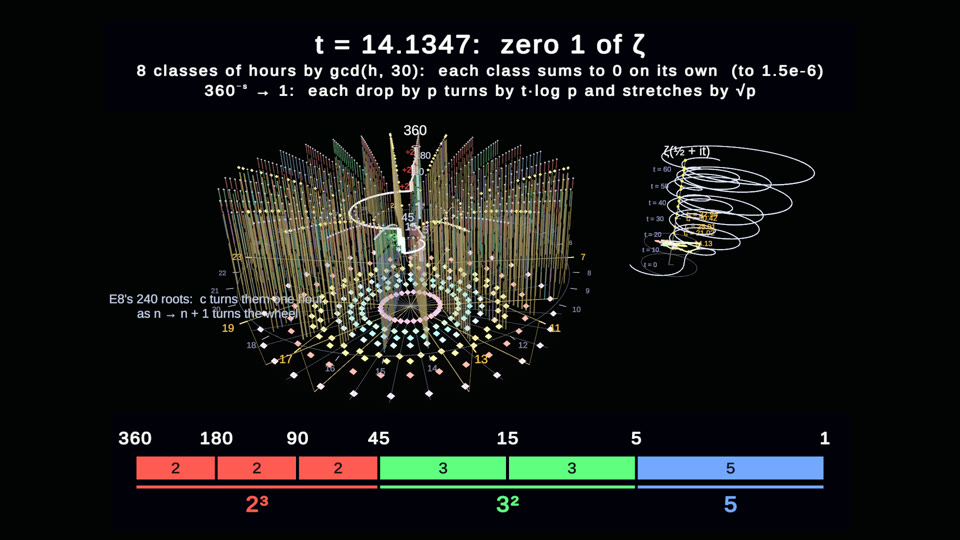
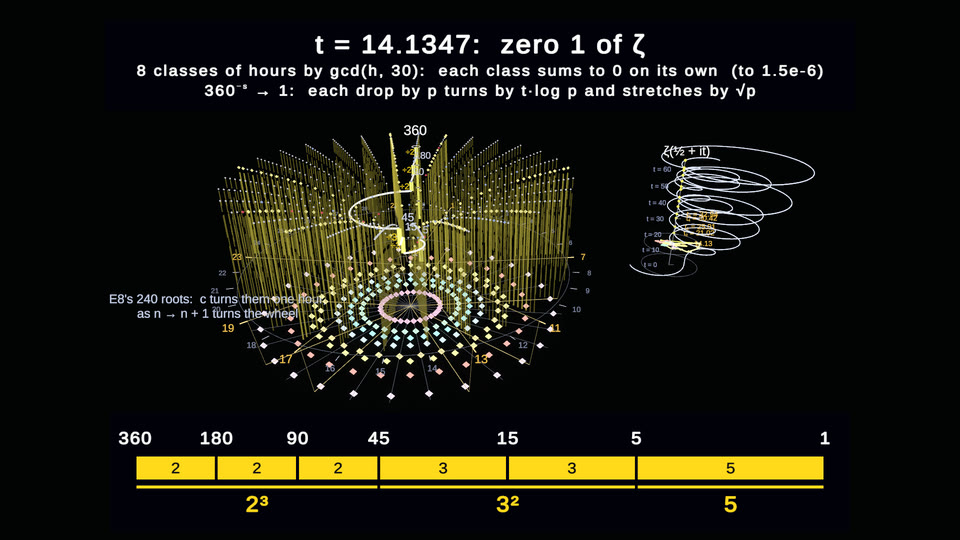
Lab funnels in the games' colours: every factor piece gold, which prime by length and labels
The model lab's factor funnels (Paths, Unified, Zeros) coloured each prime's pieces with LabMath.PrimeColor
(2 red, 3 green, 5 blue, 7 orange, 11 violet, 13 cyan), which clashed with the games' colour language: gold always
means prime, deep red p², blue pronic, grey any other composite. Now every piece is gold (NumberKind.Gold, which stays
gold when dimmed): a prime's column is one solid gold piece, a composite's column a dimmer stack of gold pieces with
wider gaps, and the column tops keep their NumberKind colours (now FunnelView.TopColor).

Which prime a piece is shows in its length, log p, and in labels:
- the picked column is banded white at each joint, and each drop of its path back has a gold ÷p
- the strip writes the prime inside each gold piece (desktop and the VR page)
- the power spirals keep their p^k labels; a tree of one prime is named "first steps ÷p" outside the rim
- Unified's phase path in ζ's plane: thinner gold steps (no arrowheads, unlike the gold hour sums) with a bead at
  each number in the colour of its column's top
- Zeros: rings and lamps gold (a tooth is log p, a piece of p); lamps off the prime powers stay white

LabMath.PrimeColor is gone; the tour's experiment modules keep their own palettes, so their recorded frames still
match the code. docs/GAMES.md, docs/VR.md and the model lab section of docs/experiments/README.md describe the new
[…]

Changed region(s): [[0.2188, 0.2667, 0.5938, 0.6519], [0.125, 0.8296, 0.875, 0.9481]]

diff --git a/Assets/Lab/FunnelView.cs b/Assets/Lab/FunnelView.cs
@@ -6,12 +6,17 @@ using UnityEngine;
 /// <summary>
 /// The factor funnel of "The paths back", interactive: every n ≤ N on E8's wheel (hour n mod 30, radius s√n), its column
 /// rising to h·log n (toward −Z) cut into one piece per prime factor, largest at the floor and smallest at the top, each as
-/// tall as log p in the prime's colour. A picked n shows its path back: down the top piece (÷ its smallest prime p), across
-/// at that height to the top of n/p's column, and so on to 1, one step at a time. The tree draws every number's first step at
-/// once (all primes, or one prime: the hops of a prime p ≥ 7 multiply the hour by p⁻¹ mod 30, the same permutation of E8's
-/// exponent spokes for every prime of p's class). The powers p^k show where runs of one prime go: a discrete spiral that
-/// climbs log p per step and turns with the order of p mod 30. The layout morphs from the wheel's hours (angle 12° per n)
-/// to the Sacks spiral (angle 2π√n) without moving any column off its radius.
+/// tall as log p. The colours are the games' (NumberKind): every piece is gold, because the pieces are primes and gold always
+/// means prime, so a prime's column is one gold piece and a composite's a stack of them; the top says what n is (gold prime,
+/// deep red p², blue pronic, grey any other composite). Which prime a piece is shows in its length, log p (the picked column
+/// is banded white at each joint), and in labels: ÷p at each drop of a path, p^k on the powers, ÷p beside the tree of one
+/// prime, the prime inside each piece of the strip.
+/// A picked n shows its path back: down the top piece (÷ its smallest prime p), across at that height to the top of n/p's
+/// column, and so on to 1, one step at a time. The tree draws every number's first step at once (all primes, or one prime:
+/// the hops of a prime p ≥ 7 multiply the hour by p⁻¹ mod 30, the same permutation of E8's exponent spokes for every prime
+/// of p's class). The powers p^k show where runs of one prime go: a discrete spiral that climbs log p per step and turns
+/// with the order of p mod 30. The layout morphs from the wheel's hours (angle 12° per n) to the Sacks spiral (angle τ√n,
+/// τ = 2π one turn) without moving any column off its radius.
 /// </summary>
 public class FunnelView
 {
@@ -24,6 +29,7 @@ public class FunnelView
     readonly PointMesh primeTops, compositeTops;
     readonly List<TextBox> hourLabels = new();
     readonly List<TextBox> powerLabels = new();
+    TextBox treeLabel;
     Transform pathRoot;
     readonly List<GameObject> pathSteps = new();
     float stepClock;
@@ -76,7 +82,7 @@ public class FunnelView
 
     // ---- layout ------------------------------------------------------------------------------------------
 
-    /// <summary>The angle of n (radians): the wheel's hour, unwrapped (−12° per n), blended toward the Sacks angle −2π√n.</summary>
+    /// <summary>The angle of n (radians): the wheel's hour, unwrapped (−12° per n), blended toward the Sacks angle −τ√n.</summary>
     public float Angle(float n)
     {
         float hour = (90f - 12f * n) * Mathf.Deg2Rad;
@@ -89,6 +95,16 @@ public class FunnelView
         float a = Angle(n), r = S * Mathf.Sqrt(n);
         return o + new Vector3(Mathf.Cos(a) * r, Mathf.Sin(a) * r, 0f);
     }
+
+    /// <summary>The colour of n's top, the games' colours: gold prime, deep red p², blue pronic, a light grey for any other composite, white 1.</summary>
+    public static Color TopColor(int n) => NumberKind.Classify(n) switch
+    {
+        NumberClass.Prime => LabMath.Gold,
+        NumberClass.PrimeSquare => NumberKind.DeepRed * 1.25f,
+        NumberClass.Pronic => NumberKind.Pronic,
+        NumberClass.Composite => new Color(.8f, .82f, .92f),
+        _ => Color.white,
+    };
 
     public Vector3 Up(float h) => Vector3.back * (H * h);
     public Vector3 Top(int n) => Base(n) + Up(Mathf.Log(n));
@@ -158,7 +174,8 @@ public class FunnelView
             hourLabels[hr].transform.position = o + new Vector3(Mathf.Cos(a), Mathf.Sin(a), 0f) * Rim * 1.12f;
         }
 
-        // columns
+        // columns: every piece in the games' gold (a prime); a prime's own column one solid piece, brighter and wider than a
+        // composite's stack, whose wider gaps show where one prime's piece ends and the next begins
         List<(Vector3, Vector3, Color, float)> ps = new(), cs = new();
         List<Vector3> pt = new(), ct = new();
         List<Color> pc = new(), cc = new();
@@ -171,8 +188,8 @@ public class FunnelView
             float h = 0f;
             for (int i = f.Count - 1; i >= 0; i--)
             {
-                float seg = Mathf.Log(f[i]), cut = seg * .05f;
-                (prime ? ps : cs).Add((b + Up(h + cut), b + Up(h + seg - cut), LabMath.PrimeColor(f[i]) * ((prime ? 1f : .85f) * dim), prime ? .42f : .3f));
+                float seg = Mathf.Log(f[i]), cut = seg * (prime ? .05f : .09f);
+                (prime ? ps : cs).Add((b + Up(h + cut), b + Up(h + seg - cut), NumberKind.Gold * ((prime ? 1f : .6f) * dim), prime ? .42f : .3f));
                 h += seg;
             }
 
@@ -184,12 +201,9 @@ public class FunnelView
             }
             else
             {
-                // the games' colours: a prime's square deep red, pronic numbers blue, other composites a light grey
-                NumberClass k = NumberKind.Classify(n);
-                Color top = k == NumberClass.PrimeSquare ? NumberKind.DeepRed * 1.25f : k == NumberClass.Pronic ? NumberKind.Pronic : new Color(.8f, .82f, .92f);
                 ct.Add(Top(n));
-                cc.Add(top * Mathf.Lerp(.45f, 1f, dim));
-                csz.Add(k == NumberClass.Composite ? .32f : .42f);
+                cc.Add(TopColor(n) * Mathf.Lerp(.45f, 1f, dim));
+                csz.Add(NumberKind.Classify(n) == NumberClass.Composite ? .32f : .42f);
             }
         }
 
@@ -246,12 +260,15 @@ public class FunnelView
 
     void BuildTree()
     {
+        if (treeLabel != null) UnityEngine.Object.Destroy(treeLabel.gameObject);
+        treeLabel = null;
         if (TreeMode == 0)
         {
             tree.Clear();
             return;
         }
 
+        // every drop is a prime piece, so gold: the prime shows in the drop's length, and a tree of one prime is named outside the rim
         List<(Vector3, Vector3, Color, float)> segs = new();
         for (int n = 2; n <= N; n++)
         {
@@ -260,12 +277,12 @@ public class FunnelView
             if (PrimesOnly && !LabMath.IsPrime(n)) continue;
             int m = n / p;
             float h1 = Mathf.Log(m);
-            Color c = LabMath.PrimeColor(p);
-            segs.Add((Base(n) + Up(Mathf.Log(n)), Base(n) + Up(h1), c, .3f));
-            if (m > 1) Arc(segs, n, m, h1, c * .8f, .16f, 8);
+            segs.Add((Base(n) + Up(Mathf.Log(n)), Base(n) + Up(h1), NumberKind.Gold, .3f));
+            if (m > 1) Arc(segs, n, m, h1, NumberKind.Gold * .6f, .16f, 8);
         }
 
         tree.Set(segs);
+        if (TreeMode != 1) treeLabel = LabDraw.Label(root, $"first steps ÷{TreeMode}", o + new Vector3(-Rim * 1.32f, 0f, 0f) + Up(.5f), 40f, NumberKind.Gold);
     }
 
     public void SetPowers(bool on)
@@ -285,6 +302,7 @@ public class FunnelView
             return;
         }
 
+        // each spiral is a run of one prime, so gold; its label p^k at the top names it, and its steps climb log p
         List<(Vector3, Vector3, Color, float)> segs = new();
         foreach (int p in PowerPrimes)
         {
@@ -295,7 +313,7 @@ public class FunnelView
                 k++;
             }
 
-            Color c = LabMath.PrimeColor(p);
+            Color c = NumberKind.Gold;
             for (int n = top; n > 1; n /= p)
             {
                 int m = n / p;
@@ -332,7 +350,7 @@ public class FunnelView
         Vector3 prev = Top(41) + Up(.15f);
         if (sacks > .98f)
         {
-            // Sacks's curve: the angle 2π(√n − k) with the whole turns taken out, through every Euler prime and never coiling
+            // Sacks's curve: the angle τ(√n − k) with the whole turns taken out, through every Euler prime and never coiling
             for (int i = 0; i <= 600; i++)
             {
                 float k = kMax * i / 600f, n = k * k + k + 41f;
@@ -392,7 +410,7 @@ public class FunnelView
         pathRoot = new GameObject($"path {n0}").transform;
         pathRoot.SetParent(root, false);
 
-        // step 0: the column itself, bright, with a ring and its number
+        // step 0: the column itself, bright, with a ring and its number, and a white band at each joint between two pieces
         GameObject s0 = new("start");
         s0.transform.SetParent(pathRoot, false);
         List<(Vector3, Vector3, Color, float)> col = new();
@@ -402,8 +420,9 @@ public class FunnelView
         for (int i = f.Count - 1; i >= 0; i--)
         {
             float seg = Mathf.Log(f[i]), cut = seg * .05f;
-            col.Add((b0 + Up(hh + cut), b0 + Up(hh + seg - cut), LabMath.PrimeColor(f[i]), .9f));
+            col.Add((b0 + Up(hh + cut), b0 + Up(hh + seg - cut), NumberKind.Gold, .9f));
             hh += seg;
+            if (i > 0) LabDraw.Ring(s0.transform, "joint", b0 + Up(hh), .8f, .16f, Color.white, Factory.GlowIntensity, 24);
         }
 
         new SegmentMesh(s0.transform, "column", Factory.GlowIntensity).Set(col);
@@ -419,7 +438,7 @@ public class FunnelView
             float h1 = h - Mathf.Log(p);
             GameObject st = new($"÷{p} → {m}");
             st.transform.SetParent(pathRoot, false);
-            List<(Vector3, Vector3, Color, float)> segs = new() { (Base(n) + Up(h), Base(n) + Up(h1), LabMath.PrimeColor(p), 1.4f) };
+            List<(Vector3, Vector3, Color, float)> segs = new() { (Base(n) + Up(h), Base(n) + Up(h1), NumberKind.Gold, 1.4f) };
             if (m > 1) Arc(segs, n, m, h1, Color.white, .7f, 16);
             new SegmentMesh(st.transform, "step", 2.2f).Set(segs);
             Vector3 land = m > 1 ? Top(m) : Base(1);
@@ -429,7 +448,7 @@ public class FunnelView
             nudge.Anchor = land + Up(.6f);
             nudge.Offset = new Vector2(.052f * 34f * m.ToString().Length * .5f + 1f, .6f);
             Vector3 mid = Base(n) + Up((h + h1) * .5f);
-            ScreenNudge dn = LabDraw.Label(st.transform, $"÷{p}", mid, 30f, LabMath.PrimeColor(p)).gameObject.AddComponent<ScreenNudge>();
+            ScreenNudge dn = LabDraw.Label(st.transform, $"÷{p}", mid, 30f, NumberKind.Gold).gameObject.AddComponent<ScreenNudge>();
             dn.Anchor = mid;
             dn.Offset = new Vector2(-2.4f, 0f);
             pathSteps.Add(st);

diff --git a/Assets/Lab/UnifiedModel.cs b/Assets/Lab/UnifiedModel.cs
@@ -13,7 +13,8 @@ using UnityEngine.InputSystem;
 ///                     S_h = Σ_{n ≡ h (30)} n^(−s) chained head to tail end at ζ(½ + it). Ordered by gcd(h, 30) the chain comes
 ///                     back to the axis after every class at a zero: each class sums to d^(−s) Π_{p | 30/d} (1 − p^(−s)) ζ(s)
 ///   the phase path    n^(−s) for the picked n and each number on its path back: each drop by p turns by t·log p and
-///                     stretches by √p (n ↦ n^(−s) turns multiplication into spiral similarities)
+///                     stretches by √p (n ↦ n^(−s) turns multiplication into spiral similarities); the drops gold like the
+///                     funnel's pieces, each number a bead in the colour of its column's top
 ///   the Sacks layout  the same columns at angle 2π√n instead of the hour, with Euler's k² + k + 41 on one smooth curve
 ///                     (prime for k ≤ 39 because Q(√−163) has class number 1; j = E4³/Δ, E4 the theta series of E8, is
 ///                     −640320³ at (1 + √−163)/2)
@@ -25,7 +26,7 @@ public class UnifiedModel : LabModel
     FunnelView funnel;
     Vector3 tower;
     SegmentMesh chain, phase, plateSpokes;
-    PointMesh plate, returns;
+    PointMesh plate, returns, stations;
     LineRenderer trail, trailWindow;
     GameObject trailDot;
     readonly List<GameObject> towerLabels = new();
@@ -81,6 +82,7 @@ public class UnifiedModel : LabModel
         BuildTower();
         chain = new SegmentMesh(Root, "hour chain", Factory.GlowIntensity);
         phase = new SegmentMesh(Root, "phase path", Factory.GlowIntensity);
+        stations = new PointMesh(Root, "phase path numbers", Factory.GlowIntensity);
         returns = new PointMesh(Root, "class returns", Factory.GlowIntensity);
 
         Controls.Add(LabControl.Button("Prev zero", VRIcons.Id.PrevChapter, () => JumpZero(-1), ","));
@@ -472,22 +474,34 @@ public class UnifiedModel : LabModel
         if (ends.Count > 0) returns.Set(ends, endCols, endSizes);
         returns.Visible = grouped && chi == 0;
 
+        // the phase path: one gold step per drop by a prime (the funnel's piece; its prime shows in its turn t·log p and its
+        // stretch √p), thinner than the hour arrows, and a bead at each number in the colour of its column's top
         List<(Vector3, Vector3, Color, float)> ps = new();
+        List<Vector3> beads = new();
+        List<Color> beadColors = new();
+        List<float> beadSizes = new();
         if (phaseOn && selected >= 2)
         {
             int n = selected;
             Vector3 p0 = InPlane(level, LabMath.Term(n, t));
+            beads.Add(p0);
+            beadColors.Add(FunnelView.TopColor(n));
+            beadSizes.Add(.4f);
             while (n > 1)
             {
                 int p = LabMath.Spf(n), m = n / p;
                 Vector3 p1 = InPlane(level, LabMath.Term(m, t));
-                ps.Add((p0, p1, LabMath.PrimeColor(p), .42f));
+                ps.Add((p0, p1, NumberKind.Gold, .3f));
+                beads.Add(p1);
+                beadColors.Add(FunnelView.TopColor(m));
+                beadSizes.Add(.4f);
                 p0 = p1;
                 n = m;
             }
         }
 
         phase.Set(ps);
+        stations.Set(beads, beadColors, beadSizes);
     }
 
     static void Arrow(List<(Vector3, Vector3, Color, float)> segs, Vector3 a, Vector3 b, Color c, float w)

diff --git a/Assets/Tour/StripView.cs b/Assets/Tour/StripView.cs
@@ -5,7 +5,7 @@ using UnityEngine;
 using UnityEngine.UI;
 
 /// <summary>
-/// A number's column laid on its side: a bar cut into one piece per prime factor (as wide as log p, in the prime's colour,
+/// A number's column laid on its side: a bar cut into one piece per prime factor (as wide as log p, in the piece's colour,
 /// the prime written inside), the values at the cuts above it, and under each run of equal pieces a bracket with the prime
 /// and its exponent. Pieces light one at a time as the path back drops them. Built into any UI parent: the caption overlay
 /// (sizes in pixels, scale 1) or a VR panel (sizes in millimetres).
@@ -30,7 +30,10 @@ public class StripView
         this.makeText = makeText;
     }
 
-    /// <summary>The strip data of n: pieces (smallest prime first), cut values n, n/p₁, … 1, and the runs with their exponents.</summary>
+    /// <summary>
+    /// The strip data of n, as the model lab's funnel draws its column: pieces (smallest prime first, all gold, since every
+    /// piece is a prime; the prime written inside), cut values n, n/p₁, … 1, and the runs with their exponents.
+    /// </summary>
     public static (float[] weights, Color[] colors, string[] inner, string[] marks, (int first, int last, string label, Color color)[] runs) ForNumber(int n)
     {
         List<int> f = LabMath.Factorize(Mathf.Max(2, n));
@@ -43,7 +46,7 @@ public class StripView
         for (int i = 0; i < f.Count; i++)
         {
             w[i] = Mathf.Log(f[i]);
-            c[i] = LabMath.PrimeColor(f[i]);
+            c[i] = NumberKind.Gold;
             inside[i] = f[i].ToString();
             rest /= f[i];
             cuts[i + 1] = rest.ToString();

diff --git a/Assets/Lab/LabMath.cs b/Assets/Lab/LabMath.cs
@@ -63,6 +63,10 @@ public static class LabMath
         48.005151, 49.773832, 52.970321, 56.446248, 59.347044, 60.831779, 65.112544
     };
 
+    /// <summary>
+    /// The lab's gold, for E8's exponent hours (the hours prime to 30) and the primes' tops and labels. The pieces of the
+    /// factor columns, which are all primes, use the games' gold (NumberKind.Gold), which stays gold when dimmed.
+    /// </summary>
     public static readonly Color Gold = new(1f, .8f, .32f);
 
     /// <summary>
@@ -105,18 +109,6 @@ public static class LabMath
     };
 
     public static double[] ZerosOf(int character) => character == 0 ? ZetaZeros : CharacterZeros[character - 1];
-
-    /// <summary>The colour of a prime's piece, as in the experiment modules: 2 red, 3 green, 5 blue, 7 orange, 11 violet, 13 cyan, then gold.</summary>
-    public static Color PrimeColor(long p) => p switch
-    {
-        2 => new Color(1f, .36f, .32f),
-        3 => new Color(.38f, 1f, .5f),
-        5 => new Color(.45f, .66f, 1f),
-        7 => new Color(1f, .68f, .25f),
-        11 => new Color(.78f, .5f, 1f),
-        13 => new Color(.3f, .95f, .95f),
-        _ => Gold,
-    };
 
     public static void EnsureSieve(int n)
     {

diff --git a/Assets/Lab/ZerosModel.cs b/Assets/Lab/ZerosModel.cs
@@ -326,13 +326,14 @@ public class ZerosModel : LabModel
             profile = LabDraw.Line(combRoot, "funnel profile", .08f, new Color(.5f, .55f, .75f) * .7f, Factory.NoGlow, pr);
         }
 
-        // rings: each prime power's tooth spun round the axis; lamps: the sum at every column, lit as its top piece
+        // rings: each prime power's tooth spun round the axis; lamps: the sum at every column, lit as its top piece. A tooth is
+        // log p, a piece of the prime p, so both are gold (a ring of p^j, j ≥ 2, dimmer); a lamp off the prime powers is white
         List<(Vector3, Vector3, Color, float)> ringSegs = new(), lampSegs = new();
         for (int m = 2; m <= Count; m++)
         {
             double z = Math.Log(m), w = d.Lamp[m];
-            bool pp = ZeroSums.PrimePower(m, out long p, out int j);
-            Color col = LabMath.PrimeColor(p);
+            bool pp = ZeroSums.PrimePower(m, out _, out int j);
+            Color col = NumberKind.Gold;
             if (pp)
             {
                 float rr = Reach(z, w);

diff --git a/docs/experiments/README.md b/docs/experiments/README.md
@@ -2374,6 +2374,12 @@ Models page is rendered in the headset's eye shape.
 
 The funnel of GB for n ≤ 720.
 
+* **Colours:** the lab uses the games' colour language ([GAMES.md](../GAMES.md)), not GB's colour for each prime. Every
+  piece is gold, because every piece is a prime, so a prime's column is one gold piece. The column tops say what the
+  number is: gold for a prime, deep red for p², blue for a pronic k(k + 1), grey for any other composite.
+* **Which prime:** a piece is as tall as log p, so equal pieces are equal primes, and the picked column has a white band
+  at each joint. Labels name them: ÷p at each drop of a path, p^k at the top of each power spiral, "first steps ÷p"
+  beside the tree of one prime, and the prime inside each piece of the strip.
 * **Picking:** pick a column (click it, or touch its top in VR) and its path back plays, one drop per prime factor.
 * **Strip:** under the model, the number's column is laid on its side: the pieces, the values at the cuts, and the
   exponent under each run.
@@ -2491,7 +2497,8 @@ What it puts together, all checked:
      is the Dedekind zeta function of Q(ζ₁₅) = Q(ζ₃₀), the field generated by E8's Coxeter eigenvalues.
 4. **The path back is a spiral in the plane of ζ.** n ↦ n⁻ˢ turns multiplication into spiral similarities. Each drop by
    p turns n⁻ˢ by t·log p and stretches it by √p, so the path of 360 is a discrete spiral from 360⁻ˢ out to 1. Its
-   steps are the primes, and its runs are the exponents.
+   steps are the primes, and its runs are the exponents. The model draws the steps gold, like the funnel's pieces, with a
+   bead at each number in the colour of its column's top.
 5. **E8's lattice zeta is two copies of ζ.** Σ′ |v|⁻²ˢ over E8 = Σ 240 σ₃(n) (2n)⁻ˢ = 240·2⁻ˢ ζ(s) ζ(s − 3). Summing
    the shells numerically matches this to 15 digits at s = 8. The zeros of ζ are zeros of E8's lattice zeta, and each
    shell count 240·σ₃(n) is multiplicative along the path back.
@@ -2526,7 +2533,7 @@ is a control:
 * **Comb (Z) and Rings (R):** the sum of ζ's zeros at every height, and each tooth spun into a ring.
 * **E8 fans (F) and Spoke (S):** the eight L-functions of Q(ζ₃₀), turned back by χ(h), as one fan per gold hour.
   **Spoke** shows one hour at a time.
-* **Lamps (L):** the sum at every column, lit as its top piece.
+* **Lamps (L):** the sum at every column, lit as its top piece: gold, a piece of log p, at each prime power.
 * **Zeros (T):** 10 500, 1 000, 100 or 30 of ζ's zeros. With fewer zeros the teeth blur together, and the composites
   light up too.
 

diff --git a/docs/GAMES.md b/docs/GAMES.md
@@ -10,7 +10,7 @@ Open them from the desktop side menu (**M**, row **GAMES**) or the lab panel's s
 
 ## The colour language
 
-The same colours are used in every game, on the main Sacks spiral and on the lab funnels' column tops:
+The same colours are used in every game, on the main Sacks spiral and in the lab's factor funnels (Paths, Unified, Zeros):
 
 | colour | means | examples |
 |---|---|---|
@@ -22,6 +22,11 @@ The same colours are used in every game, on the main Sacks spiral and on the lab
 
 Gold wins over pronic, so 2 = 1 · 2 stays gold. `NumberKind` ([`NumberKind.cs`](../Assets/Games/NumberKind.cs)) does the
 classifying, the factoring, the divisors and σ₃, and the shorthand (2³ · 3² · 5).
+
+In the funnels every piece of a column is gold too, because each piece is a prime. A prime's column is one gold piece; a
+composite's column is a stack of gold pieces under a top in the number's own colour. Which prime a piece is shows in its
+length, log p, and in the labels: ÷p at each drop of a path back, p^k on the power spirals, and the prime written inside
+each piece of the strip.
 
 ## Pointing
 

diff --git a/docs/VR.md b/docs/VR.md
@@ -80,6 +80,9 @@ The **Models** tab opens the model lab ([`Assets/Lab`](../Assets/Lab)). These ar
 experiment videos show, and they stand in front of you like a tour shot. There are four models:
 
 * **Paths.** Touch a column's top to watch its path back, with the factorization laid out as a strip on the page.
+  * The colours are the games' ([GAMES.md](GAMES.md)): every piece is gold, because each piece is a prime, and the top
+    is gold for a prime, deep red for p², blue for a pronic number, grey for any other composite. A piece's length,
+    log p, tells which prime it is, and the strip writes the prime inside each piece.
   * n ± 1 and n ± 30 step to a neighbour or along the spoke.
   * **Tree** shows every number's first step, or only the drops by 2, 3, 5, 7, 11 or 13.
   * **Powers** draws the spirals of p^k, and **Sacks spiral** morphs the layout.
